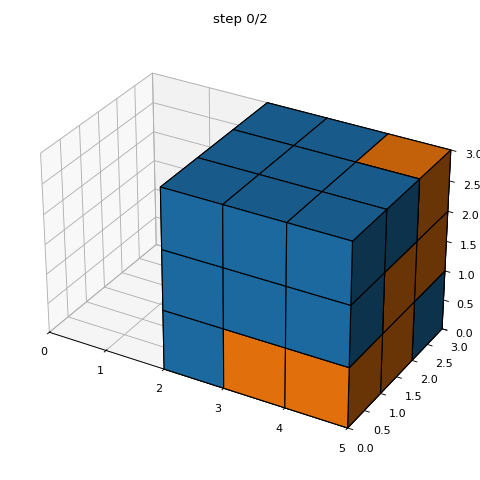
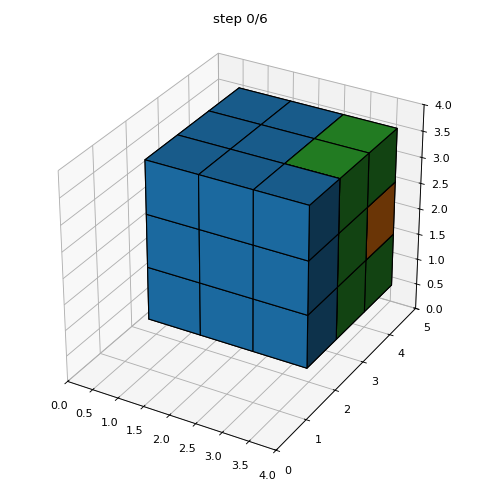
R-004/R-011: bump demo difficulty from 2 to 6 moves
Default demo now searches seeds for a 3-piece partition of a 3x3x3 cube
whose shortest disassembly is >= 5 moves; seed 7 gives 6 moves. Keeps
max_displacement=1 so the state space stays tiny (R-011).

Also: CLAUDE.md working protocol relaxed - act instead of asking; PR
review is the safety net. Added R-011 (efficient and elegant) to SPEC.

diff --git a/disassembly_demo.py b/disassembly_demo.py
@@ -1,9 +1,13 @@
-"""Render the shortest disassembly path for a random 2-piece partition of a 3x3x3 cube.
+"""Render the shortest disassembly path for a non-trivial 3-piece partition of a 3x3x3 cube.
 
-Starts from solved and writes one PNG per step of the shortest walk to a
-fully-disassembled (bbox-disjoint) state. Pieces that have become 'out' are
-hidden from the frame so the view stays focused on what's still assembled.
-Deterministic given the seed.
+Searches seeds in order for the first partition whose shortest disassembly is
+at least `MIN_MOVES` moves, so the committed frames are never a 1- or 2-move
+giveaway (R-004 proxy: longer forced paths are less mentally inspectable).
+Keeps the state space tiny by capping per-piece displacement at 1 (R-011).
+
+Usage:
+    python3 disassembly_demo.py           # searches for a seed meeting MIN_MOVES
+    python3 disassembly_demo.py 7         # forces a specific seed
 """
 from __future__ import annotations
 
@@ -12,18 +16,39 @@ import sys
 
 from generate import cube, random_partition, world_from_partition
 from puzzle import pieces_out_along_path, shortest_disassembly_path
+
 from render import render_path
 
-seed = int(sys.argv[1]) if len(sys.argv) > 1 else 13
+N_PIECES = 3
+CUBE_SIDE = 3
+MAX_DISPLACEMENT = 1
+MIN_MOVES = 5
 
-rng = random.Random(seed)
-target = cube(3)
-pieces = random_partition(target, 2, rng)
-world = world_from_partition(pieces, max_displacement=3)
 
-path = shortest_disassembly_path(world)
-if path is None:
-    raise SystemExit("no disassembled state reachable from solved")
+def build(seed: int):
+    rng = random.Random(seed)
+    pieces = random_partition(cube(CUBE_SIDE), N_PIECES, rng)
+    return pieces, world_from_partition(pieces, max_displacement=MAX_DISPLACEMENT)
+
+
+def pick_seed() -> tuple[int, list, tuple]:
+    for seed in range(10_000):
+        pieces, world = build(seed)
+        path = shortest_disassembly_path(world)
+        if path is not None and len(path) - 1 >= MIN_MOVES:
+            return seed, path, pieces
+    raise SystemExit(f"no seed under 10_000 yielded a {MIN_MOVES}-move disassembly")
+
+
+if len(sys.argv) > 1:
+    seed = int(sys.argv[1])
+    pieces, world = build(seed)
+    path = shortest_disassembly_path(world)
+    if path is None:
+        raise SystemExit("no disassembled state reachable from solved")
+else:
+    seed, path, pieces = pick_seed()
+    _, world = build(seed)
 
 hidden = pieces_out_along_path(world, path)
 

diff --git a/SPEC.md b/SPEC.md
@@ -80,6 +80,12 @@ The user-visible criteria for rejection. The numbered requirements below formali
 - **How to tell**: TBD. "Interlock" is the user's word; the implementer turns it into a formal check. Under the 6-sided cage design in R-002 it's automatically satisfied (pieces are confined on every face). Without a cage, the implementer needs a graph-based stability check (e.g. "no single piece can slide out along any axis from the solved state"), vetted against user intuition on examples.
 - **Status**: satisfied-by-construction under the current cage design (R-002). Revisit if the cage is dropped.
 
+### R-011 — Generator and code are efficient and elegant
+- **Effect**: the generator runs to completion on the configurations we actually demo (no `exceeded max_states` blowups on the default demo), and the code stays readable — small modules, no speculative abstractions, no dead branches.
+- **How to tell**: `python3 disassembly_demo.py` returns under a minute on a laptop without raising; reviewers reading the diff don't have to ask "why is this here?". Efficiency regressions in the default demo are a bug.
+- **Notes**: this is a cross-cutting quality bar, not a feature. Bigger puzzles (more pieces, larger cubes) push against the naive BFS; when they do, tighten the search (cage, displacement bound, smarter cutoffs) rather than widening the budget.
+- **Status**: partially implemented (cage + bbox cutoff). Revisit when the default demo config changes.
+
 ### R-010 — Shortest-path disassembly visualization
 - **Effect**: for any candidate puzzle, render a minimal frame-by-frame sequence from solved to fully disassembled along the shortest possible path. No wandering, no clutter. Pieces that are already "out" are hidden from the frame so the view focuses on what's still assembled.
 - **How to tell**: run on the 2-piece cube → 2–3 frames, the two pieces visibly part. Run on a harder candidate → more frames, still no clutter. The user can form an opinion about the puzzle from the PNG sequence alone, without 3D-printing.
@@ -113,3 +119,4 @@ Promote to R-### once decided.
 - 2026-04-18: initial SPEC extracted from README.
 - 2026-04-18: rewrote in effects-language after bad-puzzle interview. Reframed R-004 (was "score_graph formula") as the cognitive "not mentally solvable" property with deferred measure. Added R-007 (solvable), R-008 (pieces connected), R-009 (interlocks). Clarified R-001 allows any user-chosen target shape.
 - 2026-04-18: added R-010 (shortest-path disassembly visualization) so candidates can be judged from frames alone.
+- 2026-04-18: added R-011 (efficient and elegant) after the default demo produced a 2-move puzzle and broader probes blew the BFS state-space budget.

diff --git a/CLAUDE.md b/CLAUDE.md
@@ -4,18 +4,15 @@ The human driving this project knows the **requirements and the effects**, not t
 
 ## Before you write code
 
-1. **Read `SPEC.md` first.** It's the source of truth for what the project should do. Figure out which requirement ID(s) the current task touches. If none fit, stop and ask the user whether to add one.
-2. **Propose before implementing.** For any task beyond a trivial edit (≤10 lines, obvious fix), reply with a short plan *before* touching files:
-   - Which requirement this serves (e.g. "R-004").
-   - What you'll change (files, functions, data flow) — concrete, not abstract.
-   - How the user will verify it worked (what they'll see, run, or click).
-   - Anything you're unsure about and want the user to decide.
-3. **Wait for a go.** The user reviews the plan against their requirements and intuition. They may redirect. Don't start coding until they say go.
+1. **Read `SPEC.md` first.** It's the source of truth for what the project should do. Figure out which requirement ID(s) the current task touches. If none fit, add one yourself and flag it in the commit.
+2. **Act, don't ask.** PR review is the safety net, not pre-approval. Pick a reasonable path, implement it, and let the diff be the proposal. Reserve questions for genuine forks where the user's intuition is the only tiebreaker — not for choices they can judge faster by reading the change. Prefer a one-line update ("doing X, will push") over a menu of options.
+3. **No harm floor.** Branch work is cheap and reversible. Force-push nothing to `main`, respect the session's feature branch, and otherwise move.
 
 ## While coding
 
 - Reference the requirement ID in commit messages (`R-004: add score_graph skeleton`).
-- Keep the scope to the approved plan. If you discover the plan won't work, stop and report — don't silently expand.
+- Efficiency and elegance are requirements (see R-011). A solution that blows the state-space budget or sprawls across files is not done.
+- If the approach you picked turns out to be wrong, fix it in a follow-up commit — don't hide the detour.
 
 ## After coding
 
